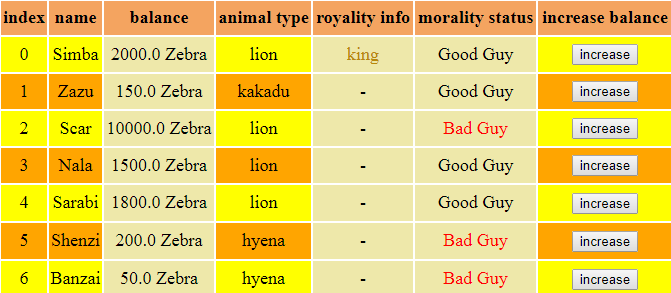
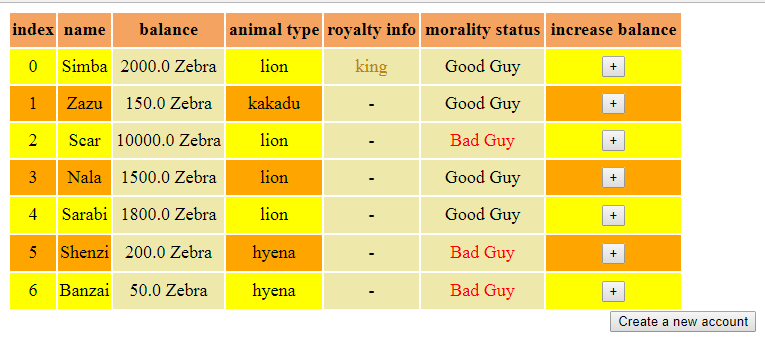
Adding create new account feature, modified (still non-functional) increase balance feature

diff --git a/week-10/day-02-Thymeleaf,_models,_views/bankofsimba/src/main/resources/templates/accounts.html b/week-10/day-02-Thymeleaf,_models,_views/bankofsimba/src/main/resources/templates/accounts.html
@@ -5,42 +5,53 @@
     <meta charset="utf-8"/>
 </head>
 <body>
+<div>
 
-<table style="width:50%; height:300px; font-size: large">
-    <tr style="background-color:sandybrown">
-        <th>index</th>
-        <th>name</th>
-        <th>balance</th>
-        <th>animal type</th>
-        <th>royality info</th>
-        <th>morality status</th>
-        <th>increase balance</th>
-    </tr>
+    <table style="width:50%; height:300px; font-size: large">
+        <tr style="background-color:sandybrown">
+            <th>index</th>
+            <th>name</th>
+            <th>balance</th>
+            <th>animal type</th>
+            <th>royalty info</th>
+            <th>morality status</th>
+            <th>increase balance</th>
+        </tr>
 
-    <tr th:each="currentAccount : ${accounts}" style="background-color:palegoldenrod" align="center">
-        <td th:style="${currentAccountStat.index % 2 == 0} ? 'background-color:yellow' : 'background-color:orange'"
-            th:text="${currentAccountStat.index}"></td>
-        <td th:style="${currentAccountStat.index % 2 == 0} ? 'background-color:yellow' : 'background-color:orange'"
-            th:text="${currentAccount.name}"></td>
+        <tr th:each="currentAccount : ${accounts}" style="background-color:palegoldenrod" align="center">
+            <td th:style="${currentAccountStat.index % 2 == 0} ? 'background-color:yellow' : 'background-color:orange'"
+                th:text="${currentAccountStat.index}"></td>
+            <td th:style="${currentAccountStat.index % 2 == 0} ? 'background-color:yellow' : 'background-color:orange'"
+                th:text="${currentAccount.name}"></td>
 
-        <td th:text="${currentAccount.balance} + ' Zebra'"></td>
+            <td th:text="${currentAccount.balance} + ' Zebra'"></td>
 
-        <td th:style="${currentAccountStat.index % 2 == 0} ? 'background-color:yellow' : 'background-color:orange'"
-            th:text="${currentAccount.animalType}"></td>
+            <td th:style="${currentAccountStat.index % 2 == 0} ? 'background-color:yellow' : 'background-color:orange'"
+                th:text="${currentAccount.animalType}"></td>
 
-        <td th:style="${currentAccount.accountBelongsToKing(currentAccount) == 'king'} ? 'color:darkgoldenrod' : 'color:black'"
-            th:text="${currentAccount.accountBelongsToKing(currentAccount)}"></td>
+            <td th:style="${currentAccount.accountBelongsToKing(currentAccount) == 'king'} ? 'color:darkgoldenrod' : 'color:black'"
+                th:text="${currentAccount.accountBelongsToKing(currentAccount)}"></td>
 
-        <td th:style="${currentAccount.accountBelongsToBadGuy(currentAccount) == 'Bad Guy'} ? 'color:red' : 'color:black'"
-            th:text="${currentAccount.accountBelongsToBadGuy(currentAccount)}"></td>
+            <td th:style="${currentAccount.accountBelongsToBadGuy(currentAccount) == 'Bad Guy'} ? 'color:red' : 'color:black'"
+                th:text="${currentAccount.accountBelongsToBadGuy(currentAccount)}"></td>
 
-        <td th:style="${currentAccountStat.index % 2 == 0} ? 'background-color:yellow' : 'background-color:orange'">
-            <form action="#" data-th-action="@{/accounts}" th:object="${currentAccount}" method="post">
-                <button type="submit" th:name="currentAccount" th:value="${currentAccount}">increase</button>
-            </form>
-        </td>
+            <td th:style="${currentAccountStat.index % 2 == 0} ? 'background-color:yellow' : 'background-color:orange'">
+                <form action="#" th:action="@{/accounts}" method="post" th:name="currentAccount"
+                      th:value="${currentAccount}">
+                    <input type="submit" value="+">
+                    <!--<button type="submit" th:name="currentAccount" th:value="${currentAccount}">increase</button>-->
+                </form>
+            </td>
+    </table>
 
-</table>
+</div>
+
+<form action="#" th:action="@{/createaccount}" method="post" align="center">
+    <div>
+        <input type="submit" value="Create a new account">
+    </div>
+</form>
+
 </body>
 </html>
 

diff --git a/week-10/day-02-Thymeleaf,_models,_views/bankofsimba/src/main/resources/templates/createaccount.html b/week-10/day-02-Thymeleaf,_models,_views/bankofsimba/src/main/resources/templates/createaccount.html
@@ -1,0 +1,33 @@
+<!DOCTYPE html>
+<html xmlns:th="http://www.thymeleaf.org">
+<head>
+    <title>New account</title>
+    <meta charset="utf-8"/>
+</head>
+<body style="background-color: palegoldenrod">
+<h1 style="font-size: larger; background-color:sandybrown; color: black" align="center">Create a new account </h1>
+
+<form action="#" th:action="@{/submitnewaccount}" method="post">
+    <div>
+        <label for="name">Your name: </label>
+        <input type="text" id="name" name="name"/>
+    </div>
+    <div>
+        <label for="balance">The deposit you wish to make: </label>
+        <input type="text" id="balance" name="balance"/>
+    </div>
+    <div>
+        <label for="animalType">Your animal type: </label>
+        <input type="text" id="animalType" name="animalType"/>
+    </div>
+    <div>
+        <label for="isKing">Are you royalty? (true/false)</label>
+        <input type="text" id="isKing" name="isKing"/>
+    </div>
+    <div>
+        <input type="submit" value="Submit">
+    </div>
+</form>
+
+</body>
+</html>

diff --git a/week-10/day-02-Thymeleaf,_models,_views/bankofsimba/src/main/java/com/greenfoxacademy/bankofsimba/controllers/CreateAccountController.java b/week-10/day-02-Thymeleaf,_models,_views/bankofsimba/src/main/java/com/greenfoxacademy/bankofsimba/controllers/CreateAccountController.java
@@ -1,0 +1,32 @@
+package com.greenfoxacademy.bankofsimba.controllers;
+
+import com.greenfoxacademy.bankofsimba.models.BankAccount;
+import com.greenfoxacademy.bankofsimba.services.BankAccountService;
+import org.springframework.stereotype.Controller;
+import org.springframework.web.bind.annotation.ModelAttribute;
+import org.springframework.web.bind.annotation.PostMapping;
+import org.springframework.web.bind.annotation.RequestMapping;
+
+@Controller
+public class CreateAccountController {
+
+    private final BankAccountService bankAccountService;
+
+    public CreateAccountController(BankAccountService bankAccountService) {
+        this.bankAccountService = bankAccountService;
+    }
+
+    @RequestMapping("createaccount")
+    public String newAccount() {
+        return "createaccount";
+    }
+
+    @PostMapping("submitnewaccount")
+    public String submitNewAccount(@ModelAttribute(value = "name") String name,
+                                @ModelAttribute(value = "balance") Double balance,
+                                @ModelAttribute(value = "animalType") String animalType,
+                                @ModelAttribute(value = "isKing") Boolean isKing) {
+        bankAccountService.add(new BankAccount(name, balance, animalType, isKing));
+        return "redirect:/accounts";
+    }
+}

diff --git a/week-10/day-02-Thymeleaf,_models,_views/bankofsimba/src/main/java/com/greenfoxacademy/bankofsimba/controllers/AccountController.java b/week-10/day-02-Thymeleaf,_models,_views/bankofsimba/src/main/java/com/greenfoxacademy/bankofsimba/controllers/AccountController.java
@@ -10,6 +10,7 @@ import org.springframework.web.bind.annotation.*;
 public class AccountController {
 
     private final BankAccountService bankAccountService;
+    public static boolean hasCreatedBaseAccounts = false;
 
     public AccountController(BankAccountService bankAccountService) {
         this.bankAccountService = bankAccountService;
@@ -17,14 +18,19 @@ public class AccountController {
 
     @GetMapping("accounts")
     public String getAllAccount(Model thymeLeafModel) {
-        bankAccountService.createAccount();
+        if (!hasCreatedBaseAccounts) {
+            bankAccountService.createAccount();
+            hasCreatedBaseAccounts = true;
+        }
+
         thymeLeafModel.addAttribute("accounts", bankAccountService.getAllAccount());
         return "accounts";
     }
 
     @PostMapping("accounts")
-    public String increaseBalanceOfAccount(@ModelAttribute BankAccount currentBankAccount) {
-        bankAccountService.increaseBalance(currentBankAccount);
-        return "redirect:/accounts/";
+    public String increaseBalanceOfAccount(@ModelAttribute(value = "index") BankAccount currentAccount) {
+        bankAccountService.increaseBalance(currentAccount);
+        return "redirect:/accounts";
     }
 }
+

diff --git a/week-10/day-02-Thymeleaf,_models,_views/bankofsimba/src/main/java/com/greenfoxacademy/bankofsimba/services/BankAccountService.java b/week-10/day-02-Thymeleaf,_models,_views/bankofsimba/src/main/java/com/greenfoxacademy/bankofsimba/services/BankAccountService.java
@@ -1,8 +1,6 @@
 package com.greenfoxacademy.bankofsimba.services;
 
 import com.greenfoxacademy.bankofsimba.models.BankAccount;
-//import com.greenfoxacademy.bankofsimba.repositories.BankAccountRepository;
-//import org.springframework.beans.factory.annotation.Autowired;
 import org.springframework.stereotype.Service;
 
 import java.util.ArrayList;
@@ -16,5 +14,5 @@ public interface BankAccountService { //az arraylist feltöltése lesz a dolga
 
     void createAccount();
 
-    void increaseBalance(BankAccount currentBankAccount);
+    void increaseBalance(BankAccount currentAccount);
 }

diff --git a/week-10/day-02-Thymeleaf,_models,_views/bankofsimba/src/main/java/com/greenfoxacademy/bankofsimba/models/BankAccount.java b/week-10/day-02-Thymeleaf,_models,_views/bankofsimba/src/main/java/com/greenfoxacademy/bankofsimba/models/BankAccount.java
@@ -66,11 +66,11 @@ public class BankAccount {
     }
 
     public String accountBelongsToBadGuy(BankAccount bankAccount) {
-        if (bankAccount.animalType == "lion") {
-            if (bankAccount.name == "Scar") {
+        if (bankAccount.animalType.equals("lion")) {
+            if (bankAccount.name.equals("Scar")) {
                 return "Bad Guy";
             }
-        } else if (bankAccount.animalType == "hyena") {
+        } else if (bankAccount.animalType.equals("hyena")) {
             return "Bad Guy";
         }
         return "Good Guy";

diff --git a/week-10/day-02-Thymeleaf,_models,_views/bankofsimba/src/main/java/com/greenfoxacademy/bankofsimba/services/BankAccountServiceImplemented.java b/week-10/day-02-Thymeleaf,_models,_views/bankofsimba/src/main/java/com/greenfoxacademy/bankofsimba/services/BankAccountServiceImplemented.java
@@ -33,6 +33,7 @@ public class BankAccountServiceImplemented implements BankAccountService {
 
     @Override
     public void increaseBalance(BankAccount currentBankAccount) {
+
         if (currentBankAccount.accountBelongsToKing(currentBankAccount).equals("king")) {
             currentBankAccount.setBalance(currentBankAccount.getBalance() + 100);
         } else {
@@ -40,3 +41,4 @@ public class BankAccountServiceImplemented implements BankAccountService {
         }
     }
 }
+
